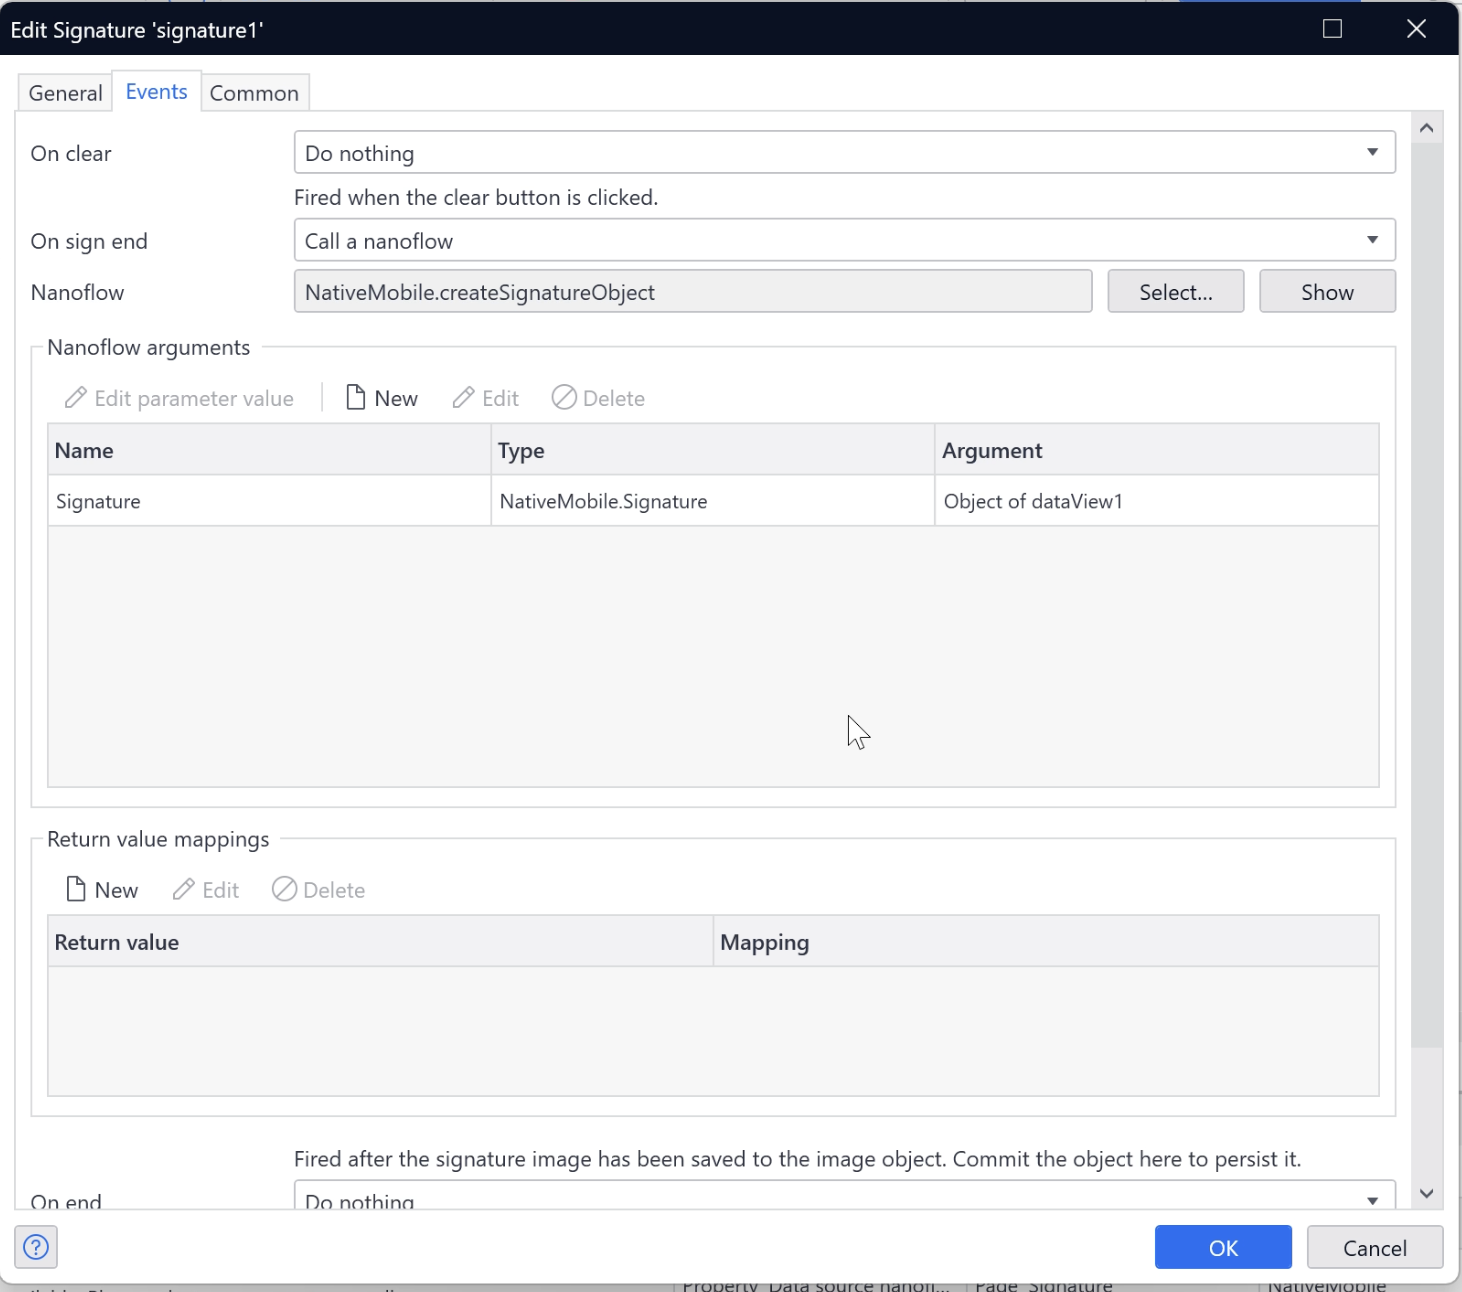
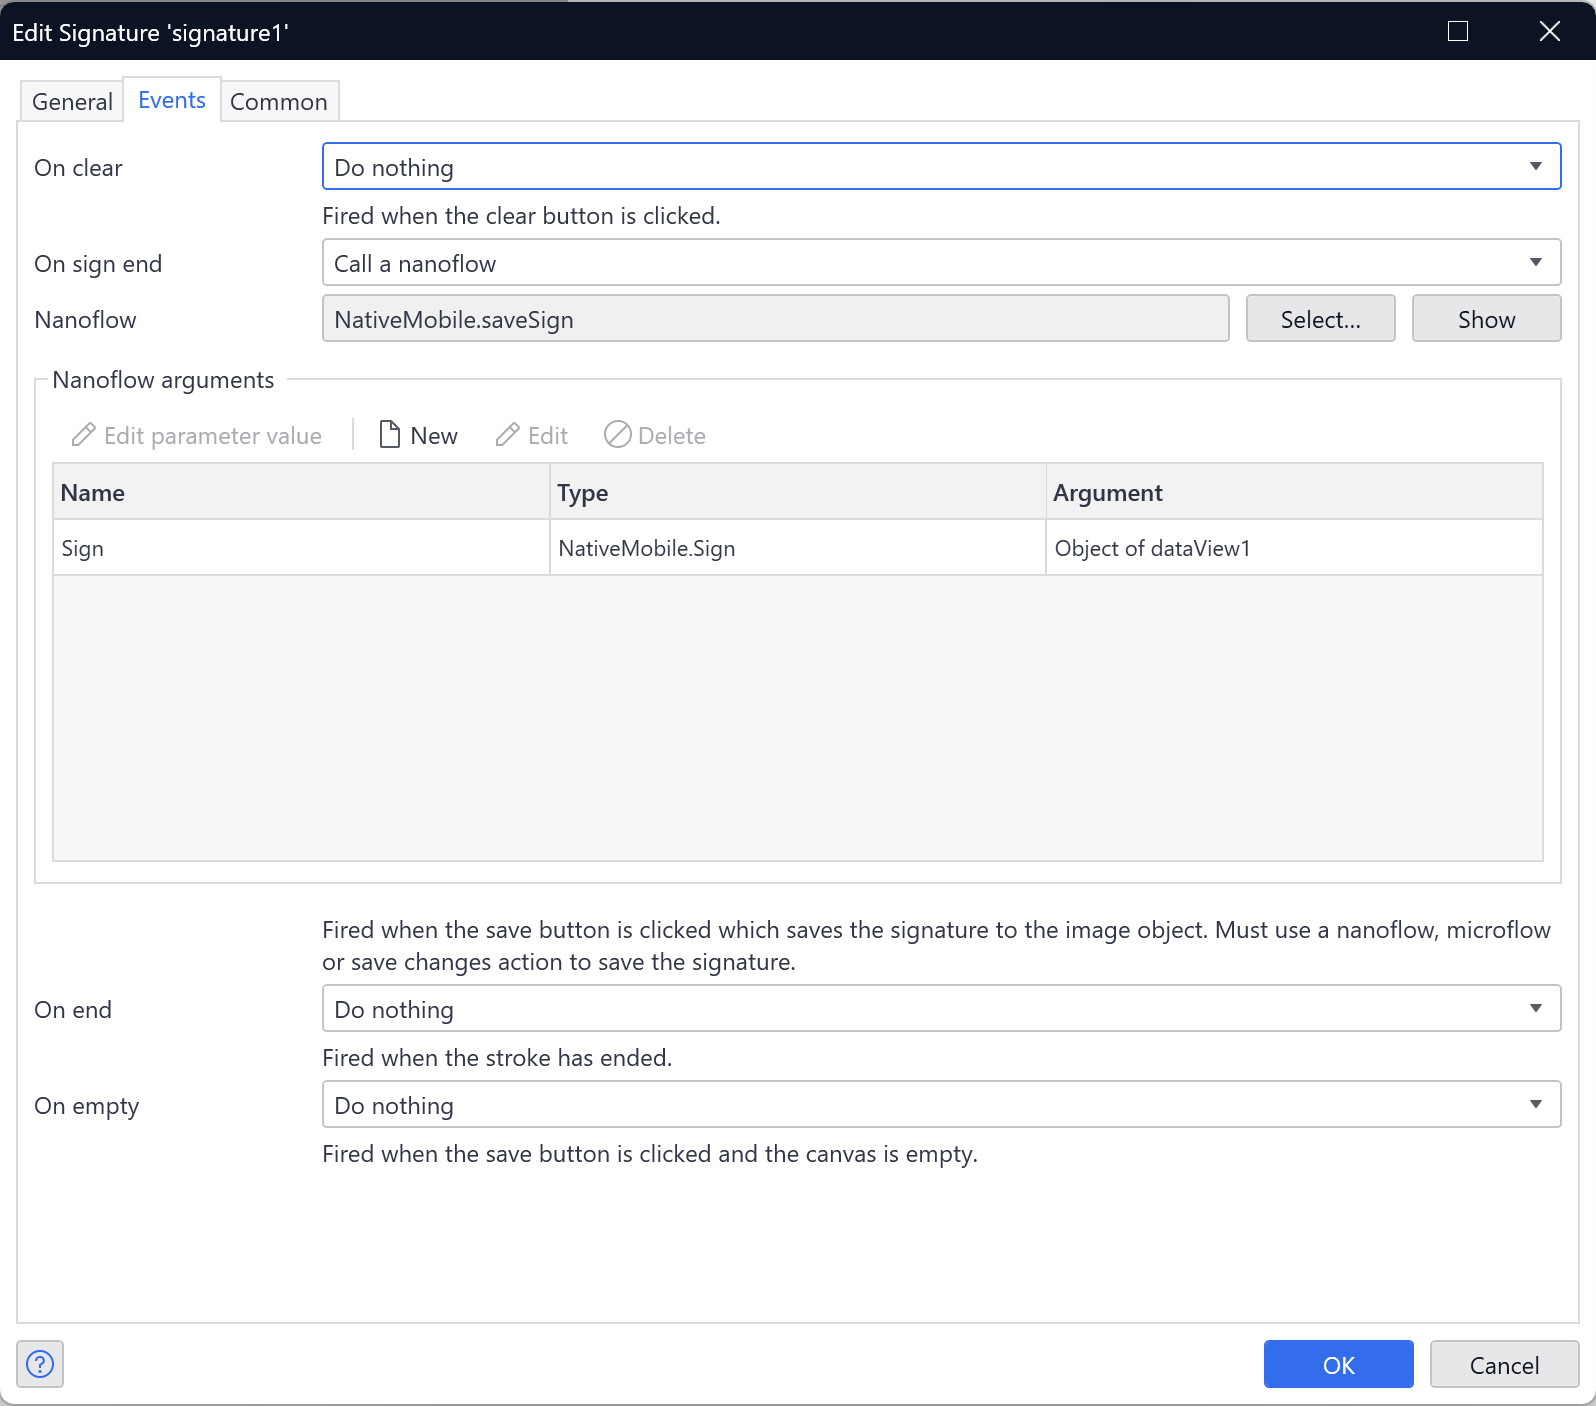
fix: added signature widget config doc

diff --git a/packages/pluggableWidgets/signature-native/SIGNATURE_WIDGET_CONFIGURATION.md b/packages/pluggableWidgets/signature-native/SIGNATURE_WIDGET_CONFIGURATION.md
@@ -1,0 +1,134 @@
+# Signature Widget - Configuration Guide
+
+## Overview
+
+This guide covers the required configuration and best practices for implementing the Signature widget in your Mendix Native Mobile application. It includes instructions for new implementations as well as migration steps for existing projects using the Signature widget.
+
+---
+
+## Advantages of the New Signature Widget
+
+The updated Signature widget simplifies configuration and reduces manual setup:
+
+-   No need to manually assign a base64 string to an entity attribute.
+-   The base64DecodeToImage action and commit object activity are no longer required in your nanoflow.
+-   For entities with synchronization mode set to **All Objects**, you only need to add a synchronize action if required by your implementation. For entities with synchronization mode set to **Online**, synchronization is not required.
+
+---
+
+## Required Configuration for New Implementations
+
+### 1. Image Property (Required)
+
+The `Image` property must be configured with an entity that **generalizes System.Image**.
+
+**Configuration Steps:**
+
+1. **Create an entity that generalizes System.Image:**
+
+    ```
+    Example:
+       Entity: CustomerSignature
+       Generalization: System.Image
+    ```
+
+2. **Configure the widget:**
+    - In the **Data source** section, set the `Image` property to your System.Image entity object.
+    - The image type must be **Dynamic** (not static).
+
+**Studio Pro Validation:**
+
+-   Selecting Static images will display the error: _"Image must be a dynamic image type. Static images cannot be uploaded to."_
+-   Dynamic System.Image entities will be accepted.
+
+---
+
+### 2. On Sign End Action (Required)
+
+The `On sign end` action is **required** and triggers when the user clicks the Save button to save the signature to the image object.
+
+**Supported Action Types:**
+
+-   **Call a nanoflow**
+-   **Call a microflow**
+-   **Save changes**
+
+**Important:**
+
+-   If the `On sign end` action is not configured with one of the supported action types, the signature will not be saved. The operation will fail silently without displaying a Studio Pro error.
+
+---
+
+## Migration Steps for Existing Projects
+
+### What Changed
+
+Previously, you needed to store the base64-encoded signature string in a String attribute, then call a nanoflow that used the **base64DecodeToImage** action to convert the string into an image, and finally commit the object before continuing with your flow. With this update, the widget now handles the base64-to-image conversion internally, eliminating this overhead.
+
+**Key Changes:**
+
+1. The widget now saves the signature directly to an entity that generalizes `System.Image`, instead of storing a base64-encoded string in a String attribute.
+2. The **On save** event has been renamed to **On sign end** under the **Events** tab.
+
+### Example: Migrating from Studio Pro 10.24 or Earlier
+
+The following is a step-by-step walkthrough of migrating a Mendix app from Studio Pro 10.24 or an earlier 11.x.x version to a version that includes the updated Signature widget.
+
+1. **Resolve migration errors** — After converting the app to the new Studio Pro version, you may see errors about outdated modules: **NanoflowCommons** and **Native Mobile Resources**. These errors are unrelated to the Signature widget. Update both modules from the Marketplace to resolve these errors.
+
+    ![Update NanoflowCommons and Native Mobile Resources](assets/migration/Update-NC-NMR.png)
+
+2. **Update the widget** — If an **Update widget** error appears, click **Update** (or **Update all widgets**) to apply the new version.
+
+    ![Update Widget](assets/migration/Update-Widget.png)
+
+3. **Configure the Image property** — After updating, a new validation error will appear: _Property Image is required_.
+
+    ![Property Image Required Error](assets/migration/PropertyImageRequiredError.png)
+
+    To resolve this, open the Signature widget configuration and select the appropriate `System.Image` object reference in the **Image** property with image type set to **Dynamic**:
+
+    ![Assign Object to Image Property](assets/migration/AssignObjectToImageProperty.png)
+
+4. **Update the On sign end action** — In the **Events** tab, assign the nanoflow or other supported action that was previously used for **On save** to the **On sign end** action. You must assign either a nanoflow, microflow, or save changes action.
+
+    ![Assign Nanoflow to On Sign End](assets/migration/AssignNanoflowToOnSignEnd.png)
+
+    Next, open the nanoflow and remove the **base64DecodeToImage** action and **Commit object** activity, as they are no longer required. Keeping the **base64DecodeToImage** action will fail the signature from being stored. Keep your existing actions for ex.- **Synchronize** or **Close page**.
+
+    ![Nanoflow with Removed Base64DecodeToImage](assets/migration/NanoflowOnSignEnd.png)
+
+---
+
+## Troubleshooting
+
+### Error: "Property Image is required"
+
+**Cause:** The Image property is not configured.
+
+**Solution:**
+
+1. Select the Signature widget.
+2. In the **Data source** section, configure the Image property.
+3. Select a System.Image entity object.
+
+### Error: "Image must be a dynamic image type. Static images cannot be upload to"
+
+**Cause:** You selected a static image type.
+
+**Solution:**
+
+1. Create an entity that generalizes System.Image.
+2. In the Signature widget, set the Image property to use a dynamic image type.
+3. Select the System.Image entity object.
+
+### Signature is not being stored in the object
+
+**Cause:** The `On sign end` action is not configured with a supported action type.
+
+**Solution:**
+
+1. Configure the `On sign end` action with a supported action type: call a nanoflow, call a microflow, or save changes.
+2. Implement your project-specific logic inside the nanoflow or microflow. You can use other actions (for ex.- show page or close page) within the nanoflow or microflow as needed.
+
+---
